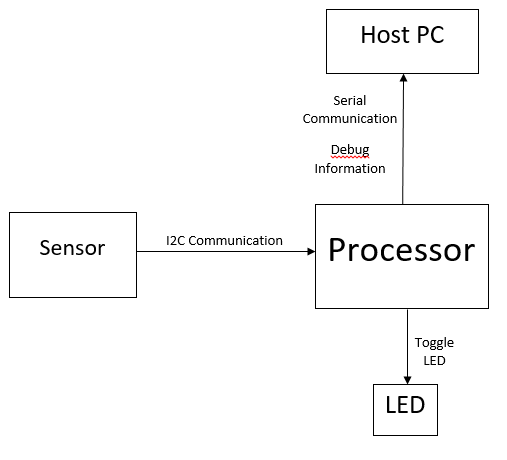
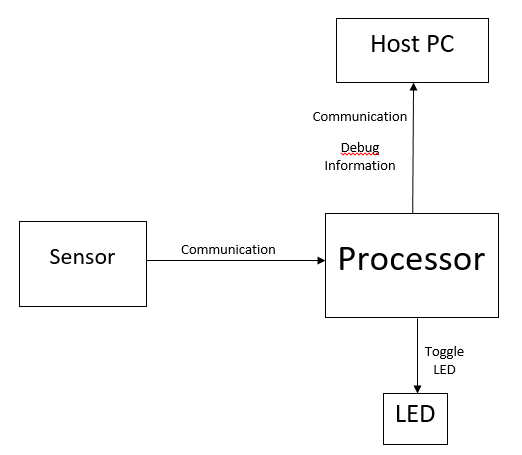
Hardware - Creates Initial Design section and moves design to Initial Design

Changed region(s): [[0.0296, 0.0, 0.9763, 0.9846]]

diff --git a/hardware/initialdesign.tex b/hardware/initialdesign.tex
@@ -1,0 +1,19 @@
+\namedsection{Initial Design}{Gupta}
+
+The hardware side of this project requires the ARM Cortex M0 processor to obtain the sensor data to classify with the model within. The classification then needs to be made visible so a user can see whether they are doing exercise or not. During development, it is also useful for debug information to be extracted so it is possible to diagnose issues that may arise as well as test various parts of the system. 
+
+Figure~\ref{fig:hardware_schematic_development} shows the block diagram for the hardware part of the project whilst still developing and Figure~\ref{fig:hardware_schematic_final} shows the block diagram for the target final system.
+
+\begin{figure}
+	\centering
+	\includegraphics[scale=.8]{hardware-schematics-development.png}
+	\caption{Hardware Block Diagram - Development}
+	\label{fig:hardware_schematic_development}
+\end{figure}
+
+\begin{figure}
+	\centering
+	\includegraphics[scale=.8]{hardware-schematics-final.png}
+	\caption{Hardware Block Diagram - Final}
+	\label{fig:hardware_schematic_final}
+\end{figure}

diff --git a/hardware/hardware.tex b/hardware/hardware.tex
@@ -1,8 +1,8 @@
 \chapter{Hardware}
 
+\input{hardware/initialdesign}
 \input{hardware/cortex}
 \input{hardware/research}
 \input{hardware/fpga}
 \input{hardware/mbed}
-\input{hardware/design}
 \input{hardware/sensor}
